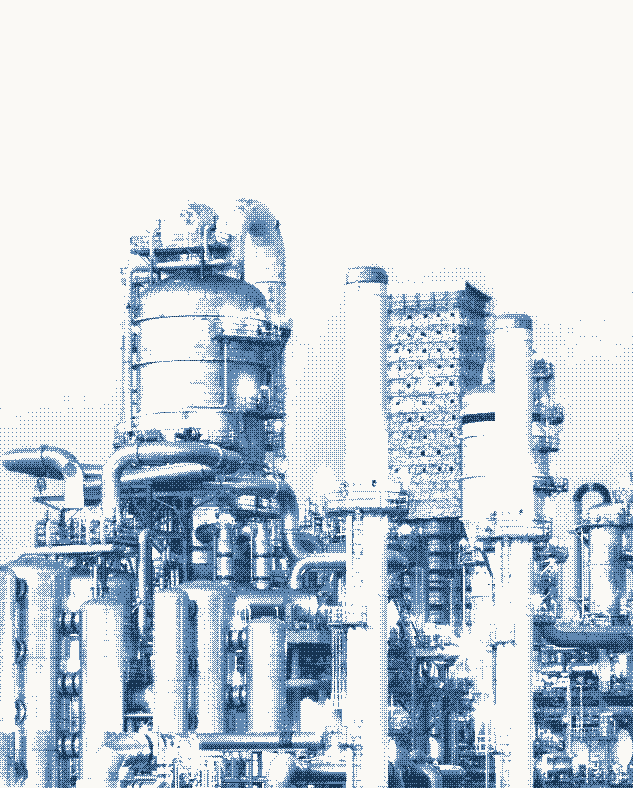
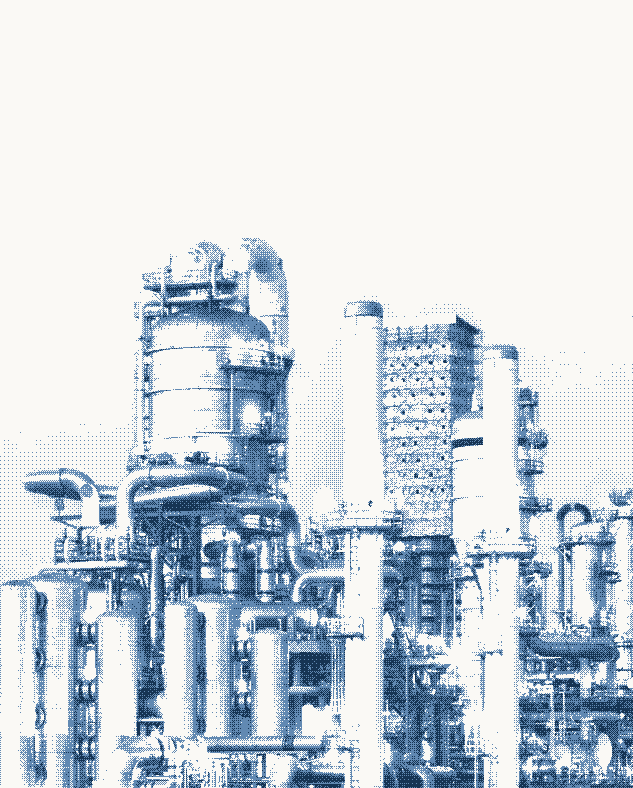
tira: hover em 92% com o pe da mascara junto, e a foto da industria mais baixa
- clareamento do hover de 84% para 92%, e o PE da mascara subiu com ele, de 22%
  para 48%. Antes so o alto ficava claro de verdade e a metade de baixo seguia
  fotografica; agora o pe recebe 0,92 x 0,48, uns 44% contra os 18% de antes.
  Sobra foto o bastante para a onda do fluido se ler, que e o motivo de a
  mascara existir. Historico do numero: 20, 45, 58, 72, 84, 92
- a foto da industria desce de 10% para 16% da altura: 126px de ceu estendido no
  alto, no mesmo tom 0,578 medido nas 12 primeiras linhas do cru

Changed region(s): [[0.0, 0.2437, 1.0, 1.0]]

diff --git a/index.html b/index.html
@@ -1615,7 +1615,12 @@ body>*{position:relative;z-index:1}
     rgba(250,249,245,.18) 58%, rgba(250,249,245,.04) 70%, rgba(250,249,245,0) 80%,
     rgba(250,249,245,0) 100%);
   transition:background .5s}
-/* 17/09, 8a volta: no hover a foto CLAREIA 84%. A escala foi 20 (nao se via),
+/* 18/09, 9a volta: no hover a foto CLAREIA 92%, e o PE da mascara subiu junto,
+   de 22% para 48%: antes so o alto ficava claro de verdade e a metade de baixo
+   seguia fotografica. Agora o pe recebe 0,92 x 0,48, uns 44% de clareamento,
+   contra os 18% de antes. Sobra foto o bastante para a onda do fluido se ler,
+   que foi o motivo de a mascara existir.
+   Historico do numero: 20 (nao se via), 45, 58, 72, 84, 92. A escala foi 20 (nao se via),
    45, 58, 72, 84. Aos 84% um pixel de tinta (22,52,83) chega a (213,217,219):
    a foto passa a ser marca d'agua atras do vidro, que com o blur de 7px e
    coerente. Deste ponto em diante quase nao ha o que clarear: em 100% a coluna
@@ -1641,12 +1646,12 @@ body>*{position:relative;z-index:1}
    `backdrop-filter` junto, que e o que faz isso funcionar. */
 .sh-col::after{content:"";position:absolute;inset:0;z-index:1;pointer-events:none;
   background:#FAF9F5;opacity:.12;
-  -webkit-mask-image:linear-gradient(to bottom,#000 0%,#000 48%,rgba(0,0,0,.30) 74%,rgba(0,0,0,.22) 100%);
-  mask-image:linear-gradient(to bottom,#000 0%,#000 48%,rgba(0,0,0,.30) 74%,rgba(0,0,0,.22) 100%);
+  -webkit-mask-image:linear-gradient(to bottom,#000 0%,#000 52%,rgba(0,0,0,.55) 78%,rgba(0,0,0,.48) 100%);
+  mask-image:linear-gradient(to bottom,#000 0%,#000 52%,rgba(0,0,0,.55) 78%,rgba(0,0,0,.48) 100%);
   -webkit-backdrop-filter:blur(0px) saturate(100%);
   backdrop-filter:blur(0px) saturate(100%);
   transition:opacity .5s,backdrop-filter .5s,-webkit-backdrop-filter .5s}
-.sh-col:hover::after,.sh-col:focus-within::after{opacity:.84;
+.sh-col:hover::after,.sh-col:focus-within::after{opacity:.92;
   -webkit-backdrop-filter:blur(7px) saturate(140%);
   backdrop-filter:blur(7px) saturate(140%)}
 /* 16/09: o PE de cada foto clareou um degrau, .54/.58 -> .60/.68 nas duas
